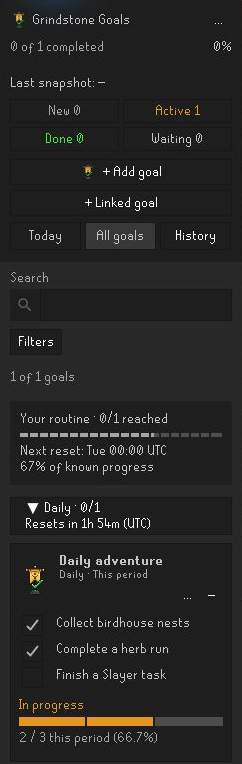
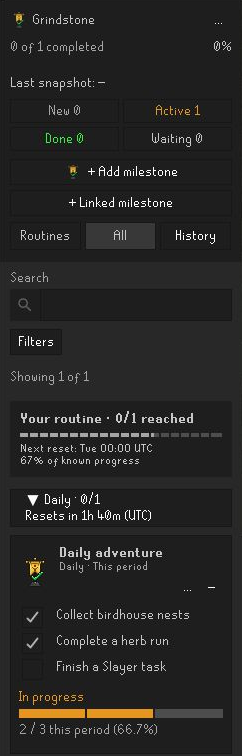
docs: refresh milestone wording and native-width screenshots

diff --git a/README.md b/README.md
@@ -7,23 +7,23 @@
 
 **Your next level. Your next unlock. Your next milestone.**
 
-Keep every Old School RuneScape grind in sight. Grindstone brings your skills, boss kills, collection log and personal goals together in one RuneLite sidebar, with progress bars, item previews and completion alerts.
+Keep every Old School RuneScape grind in sight. Grindstone brings your skills, boss kills, collection log and personal milestones together in one RuneLite sidebar, with progress bars, item previews and completion alerts.
 
-## A clearer view of your next goal
+## A clearer view of your next milestone
 
 Keep your priorities close and your progress easy to follow. Pin the grinds you care about, see what is already complete, and choose your next target without leaving RuneLite.
 
 | Your priorities, at a glance | Milestones worth finishing |
 | --- | --- |
-| <img src="docs/images/dashboard.png" width="242" alt="Grindstone sidebar with pinned Slayer and Vorkath goals and completion counters"> | <img src="docs/images/milestones.png" width="242" alt="Completed Ranged and Recipe for Disaster goals in the Grindstone sidebar"> |
-| Keep your next skill and boss targets pinned at the top. | See finished goals in green and revisit your progress in History. |
+| <img src="docs/images/dashboard.png" width="242" alt="Grindstone sidebar with pinned Slayer and Vorkath milestones and completion counters"> | <img src="docs/images/milestones.png" width="242" alt="Completed Ranged and Recipe for Disaster milestones in the Grindstone sidebar"> |
+| Keep your next skill and boss targets pinned at the top. | See finished milestones in green and revisit your progress in History. |
 
 | Chase your missing collection slots | Make a little progress every day |
 | --- | --- |
-| <img src="docs/images/collection-log.png" width="242" alt="Zulrah collection-log goal with native item icons and obtained-item highlights"> | <img src="docs/images/routines.png" width="242" alt="Daily checklist with completed steps, period progress and a UTC reset countdown"> |
+| <img src="docs/images/collection-log.png" width="242" alt="Zulrah collection-log milestone with native item icons and obtained-item highlights"> | <img src="docs/images/routines.png" width="242" alt="Daily checklist with completed steps, period progress and a UTC reset countdown"> |
 | See the items you have unlocked and the ones you are still chasing. | Check off your daily plans and see when the next period begins. |
 
-*Screenshots show example goals and progress.*
+*Screenshots show example milestones and progress.*
 
 ## Make every grind count
 
@@ -36,40 +36,42 @@ From your first skill milestone to your next collection-log slot, choose the tar
 | **Quests & achievements** | Quests, quest series, diary tiers and Combat Achievements |
 | **Collection log** | Individual unlocks or entire pages, with item previews and obtained progress |
 | **Item quantities** | Supplies and equipment across known inventory, equipment, bank and supported storage |
-| **Personal goals** | Custom counters, notes, checklists and linked milestones |
+| **Personal milestones** | Custom counters, notes, checklists and linked milestones |
 
-Want to work toward the whole log? Use **Add all collection-log pages** from the header menu to add missing page goals.
+Want to work toward the whole log? Use **Add all collection-log pages** from the header menu to add missing page milestones.
 
-## Start your next goal
+## Start your next milestone
 
 1. Enable **Grindstone** in RuneLite, log in and open its sidebar.
-2. Select **+ Add goal**, choose a goal and set your target.
-3. Review, save and play. Supported goals update as you make progress.
+2. Select **+ Add milestone**, choose what to track and set your target.
+3. Review, save and play. Supported milestones update as you make progress.
 
-<img src="docs/images/add-goal.png" width="464" alt="Add goal dialog with six focus groups, searchable skills, target presets and a Slayer level 99 target">
+<img src="docs/images/add-goal.png" width="464" alt="Add milestone dialog with six focus groups, searchable skills, target presets and a Slayer level 99 target">
 
-Start with your own goals or choose a preset pack from the **…** menu. Customize your sidebar, goal types and alerts in **RuneLite settings → Grindstone**.
+Start with your own milestones or choose a preset pack from the **…** menu. Customize your sidebar, tracking preferences and alerts in **RuneLite settings → Grindstone**.
 
 ### Right-click to get started faster
 
-Add a goal straight from the game interface with the subject already selected.
+Add a milestone straight from the game interface with the subject already selected.
 
-| Right-click | Create a goal for |
+| Right-click | Choose |
 | --- | --- |
-| A skill or Total level | Skill, total or base level and XP |
-| Combat level in Combat Options | Combat level |
-| A quest or achievement diary region | Quest or diary-tier completion |
-| A collection-log item or page | An item unlock or page completion |
-| A Combat Achievement task or boss entry | Task or boss-achievement completion |
-| A supported boss NPC | Kill count |
+| A skill or Total level | **Set level milestone**, **Set XP milestone**, or a total/base target |
+| Combat level in Combat Options | **Set combat milestone** |
+| A quest | **Track quest** |
+| An achievement diary region | **Track Easy/Medium/Hard/Elite diary** |
+| A collection-log item or page | **Track unlock** or **Track page** |
+| A Combat Achievement task | **Track task** |
+| A Combat Achievements boss entry | **Track boss achievements** |
+| A supported boss NPC | **Track kills** |
 
 Choose your target and review it before saving. Each shortcut can be switched off in settings.
 
 ## Keep your priorities in focus
 
-- **Put your next milestone first.** Pin goals and group them by category or skill.
-- **Find what matters now.** Search your goals, filter the list or select a dashboard status counter.
-- **Build a routine.** Set daily, weekly or monthly goals and use **Today** to see recurring progress and upcoming resets.
+- **Put your next milestone first.** Pin milestones and group them by category or skill.
+- **Find what matters now.** Search your milestones, filter the list or select a dashboard status counter.
+- **Build a routine.** Create daily, weekly or monthly routines and use **Routines** to see recurring progress and upcoming resets.
 - **Plan ahead.** Add personal deadlines and optional reminders in the sidebar.
 - **Celebrate the finish.** Choose completion popups, local chat messages or optional desktop notifications, then revisit your milestones in **History**.
-- **Manage your goals together.** Use bulk actions to organize several goals, and export a profile backup to keep a local copy.
+- **Manage your milestones together.** Use bulk actions to organize several milestones, and export a profile backup to keep a local copy.
